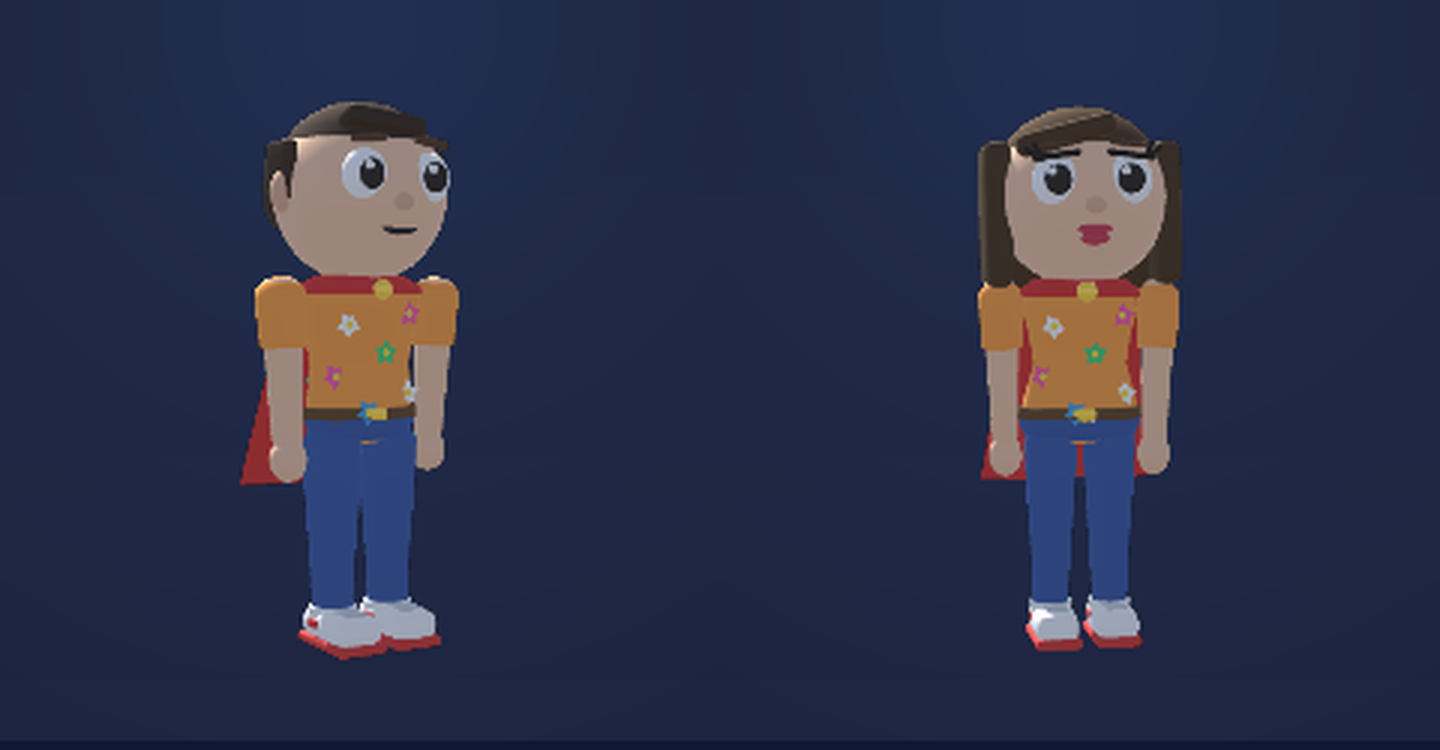
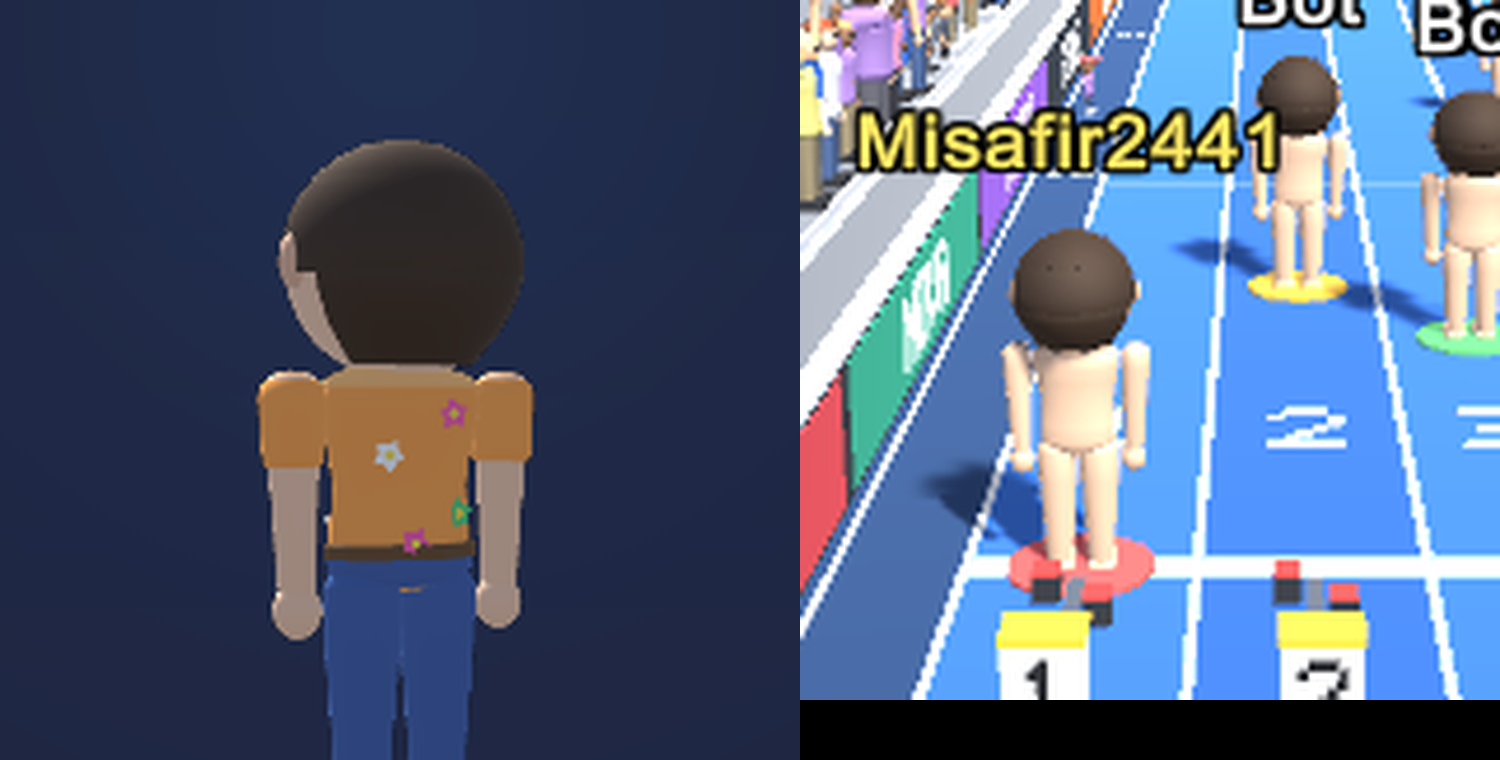
Erkek temel saci: kafaya yapisik kisa duz sac, yanlarda kulak hizasina, arkada enseye dogru daralir (MeshKit.Lathe yay destegi)

diff --git a/client/Assets/Scripts/Characters/Outfits.cs b/client/Assets/Scripts/Characters/Outfits.cs
@@ -385,8 +385,10 @@ namespace TextRun.Characters
             }
             else
             {
-                // Kısa düz saç: yanları ve arkayı kulak hizasına kadar saran tek parça (yüz tarafı açık)
-                c.Put(MeshKit.Lathe(new[] { 0.3f, -0.04f, 0.322f, -0.03f, 0.32f, 0.05f, 0.298f, 0.12f, 0.262f, 0.19f, 0.236f, 0.19f, 0.27f, 0.12f, 0.29f, 0.05f, 0.29f, -0.03f }, 20, 148f, 244f), c.head, 0f, 0f, -0.012f, hair, 0f, 0f, 0f, 0.2f);
+                // Kısa düz saç: kafaya yapışık durur. Yanlarda kulak hizasına kadar iner (yüz tarafı açık),
+                // arkada enseye doğru kafanın biçimini izleyerek daralır: şapka gibi dışarı taşmaz.
+                c.Put(MeshKit.Lathe(new[] { 0.296f, -0.035f, 0.314f, -0.03f, 0.314f, 0.05f, 0.292f, 0.12f, 0.258f, 0.19f, 0.236f, 0.19f, 0.27f, 0.12f, 0.29f, 0.05f, 0.29f, -0.03f }, 20, 148f, 244f), c.head, 0f, 0f, -0.012f, hair, 0f, 0f, 0f, 0.2f);
+                c.Put(MeshKit.Lathe(new[] { 0.172f, -0.26f, 0.192f, -0.25f, 0.262f, -0.16f, 0.3f, -0.08f, 0.314f, -0.02f, 0.29f, -0.02f, 0.28f, -0.08f, 0.244f, -0.16f, 0.176f, -0.25f }, 12, 200f, 140f), c.head, 0f, 0f, -0.012f, hair, 0f, 0f, 0f, 0.2f);
             }
         }
 

diff --git a/client/Assets/Scripts/Game/DevHarness.cs b/client/Assets/Scripts/Game/DevHarness.cs
@@ -117,6 +117,13 @@ namespace TextRun.Game
             controller.DevClearHead();
             yield return new WaitForSeconds(0.9f);
             yield return Shot("1j-hair-male");
+            controller.DevShowInventory(4);
+            controller.DevClearHead();
+            controller.DevClearCape();
+            yield return new WaitForSeconds(2.0f);
+            yield return Shot("1j-hair-male-back");
+            controller.DevShowInventory(0);
+            controller.DevClearHead();
             controller.DevSetBody(0, "f");
             yield return new WaitForSeconds(0.9f);
             yield return Shot("1j-hair-female");

diff --git a/client/Assets/Scripts/Game/OnlineGameController.Inventory.cs b/client/Assets/Scripts/Game/OnlineGameController.Inventory.cs
@@ -641,6 +641,8 @@ namespace TextRun.Game
 
         public void DevClearHead() { if (inventory?.equipped != null) inventory.equipped = System.Array.FindAll(inventory.equipped, id => Characters.Outfits.CategoryOf(id) != "head"); }
 
+        public void DevClearCape() { if (inventory?.equipped != null) inventory.equipped = System.Array.FindAll(inventory.equipped, id => Characters.Outfits.CategoryOf(id) != "cape"); }
+
         public void DevMarkNew(params string[] ids) { foreach (var id in ids) MarkNewItem(id); }
 
         public bool DevSuppressGui;
